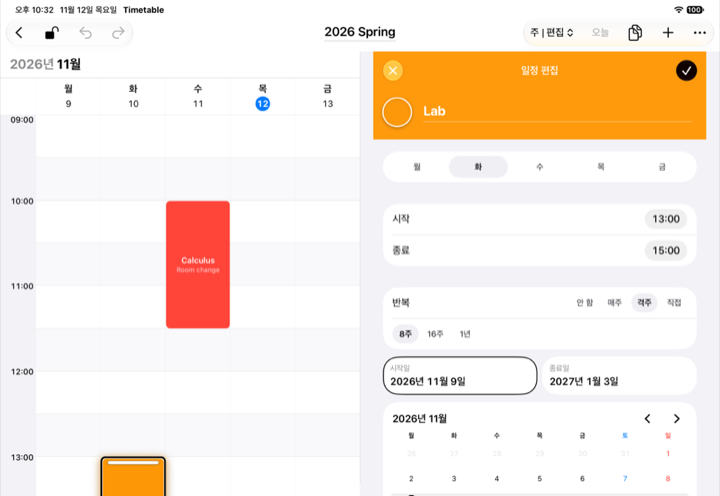
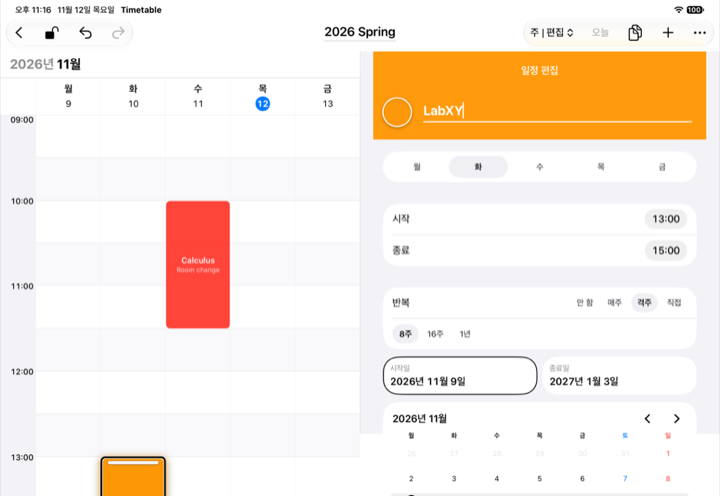
improve: blog — 편집 칸 실시간 저장 · 되돌리기 단위
Claude-Session: https://claude.ai/code/session_01UreDqpmDwzPMNiVNkNRL1H

diff --git a/src/content/blog/en/2026-11-09-timetable-calendar-plan.md b/src/content/blog/en/2026-11-09-timetable-calendar-plan.md
@@ -1,6 +1,6 @@
 ---
 title: "A calendar on top of the timetable — alternating weeks and \"this day only\" changes"
-date: 2026-11-12T22:46:03+09:00
+date: 2026-11-12T23:25:00+09:00
 app: "timetable"
 tags: ["devlog", "swiftui", "data", "android"]
 summary: "Assign a timetable to each week (alternating weeks included) and keep cancellations and makeup classes on their dates only. The grid was reused as is."
@@ -473,13 +473,13 @@ Tapping a date no longer changes the layout. When one tap rearranged the screen,
 
 **One tap opens the editor.** With the popover, a first tap only selected and a second opened it, because the popover covered the block. The pane covers nothing, so one tap is enough and a second tap shows no popover. The pane is the same screen as the popover (save, delete, scope questions, new events from `+`); one window-wide flag turns the popover off while the pane is on screen.
 
-![Week | Edit: the tapped event opens on the right](/blog/timetable-calendar-plan/split-week-edit.png)
+**The pane has no X or ✓; edits apply as you go.** One undo step is one field: tapped values save at once, the time wheel saves when it stops, title and memo save when typing pauses for about a second or focus leaves. Saving on every keystroke would make undo useless; one step per selected event would undo the title when you only wanted the time back. The questions ✓ used to ask (which occurrences of a repeating event, whether to restyle matching events) are asked once per event and the answer is reused; cancelling drops that change.
 
-One difference: with the pane open you can still drag the block on the left. The form holds the old time as its draft, so ✓ would put the block back. The pane rebuilds its form whenever the stored day or time changes.
+![Week | Edit: no X or ✓, the block on the left follows each edit](/blog/timetable-calendar-plan/split-week-edit.png)
+
+The pane rebuilds its form when the stored event changes from outside (a drag on the grid, undo). The first version compared the store against the value the form sent, but saving a single occurrence adds fields in the store, so the pane read its own save as an outside change, rebuilt, and forgot the scope it had just been given. It now compares against the value read back after saving, and the answers live in the pane rather than the form.
 
 **Day | Edit uses the live grid, not the picture.** The picture has no toolbar (lock, undo, `+`, Today) and no dragging. Instead the live grid is narrowed to one weekday. Its week swipe is off there, because the neighbour it slides in is the same weekday next week, not tomorrow. You step days by swiping the date strip above it.
-
-![Day | Edit: one-day grid and the editor](/blog/timetable-calendar-plan/split-day-edit.png)
 
 Checked on the iPad simulator in landscape only. iPhone Duo, Mac, devices and Arabic are still to do.
 
@@ -500,4 +500,4 @@ Checked on the iPad simulator in landscape only. iPhone Duo, Mac, devices and Ar
 - 2026-11-12 — editing a repeating event offers three scopes too. "This and following" splits the series at that date (the later half keeps the id; one undo merges it back). Fixed a phantom occurrence from moving a weekday and a leftover single-day event from deleting "following" at the first occurrence.
 - 2026-11-12, midday — removed the two-year length cap on repeat ranges; the 2100 date ceiling is gone too. The edit sheet no longer counts occurrences (count removed from the summary line and the alert, the 50-per-day limit dropped, dots only for the visible month).
 - 2026-11-12, evening — wide landscape screens split in half: month | week, then week | day after tapping a date. The day pane is a picture; one live grid. Fixed a split that survived rotation (it measured its own content).
-- 2026-11-12, night — four split pairs picked from a top-right menu only; tapping a date no longer switches to week | day. The edit pane opens on one tap and replaces the popover. Day | Edit narrows the live grid to one column.
+- 2026-11-12, night — four split pairs picked from a top-right menu only; tapping a date no longer switches to week | day. The edit pane opens on one tap, replaces the popover, and saves as you edit (undo per field, scope and style asked once). Day | Edit narrows the live grid to one column.
